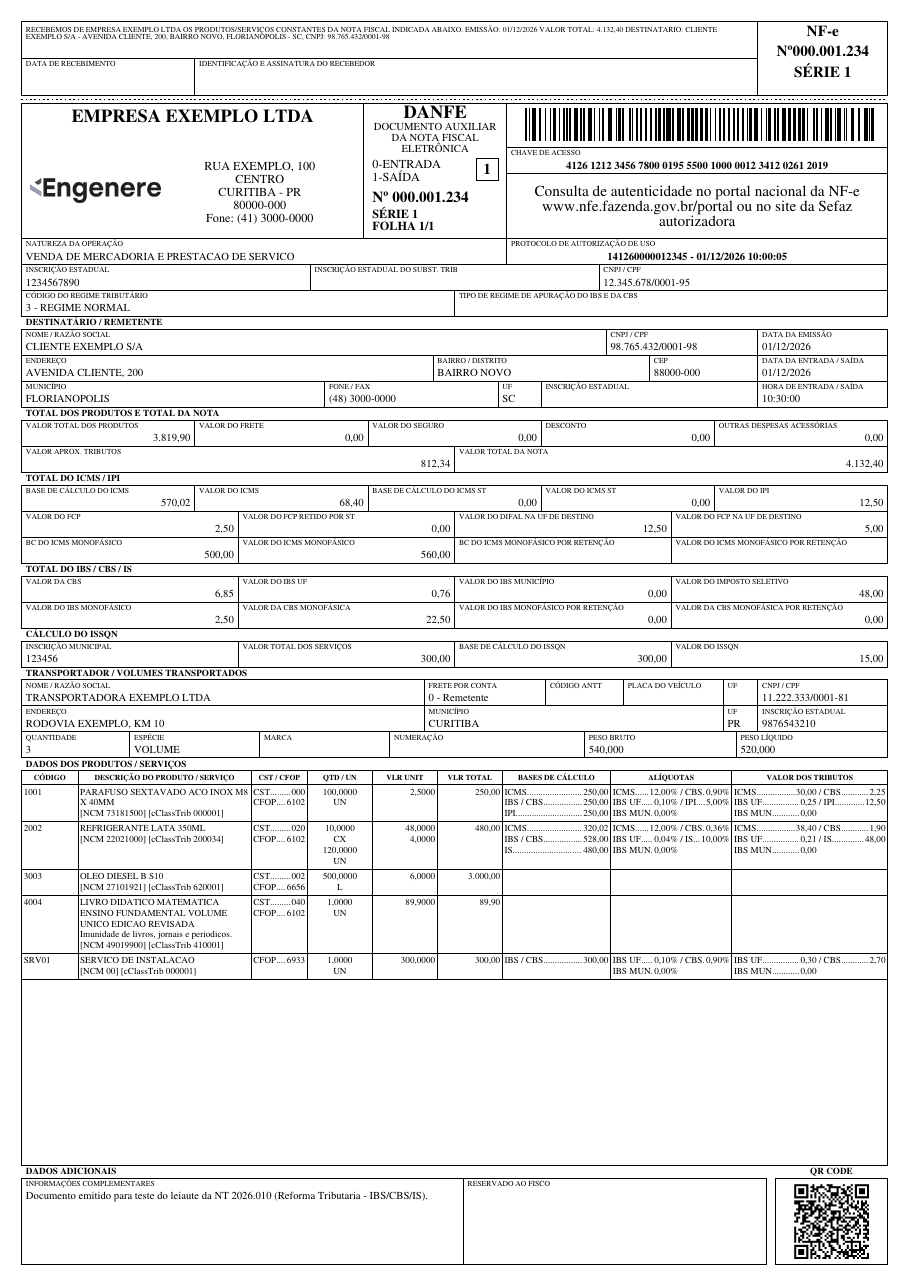
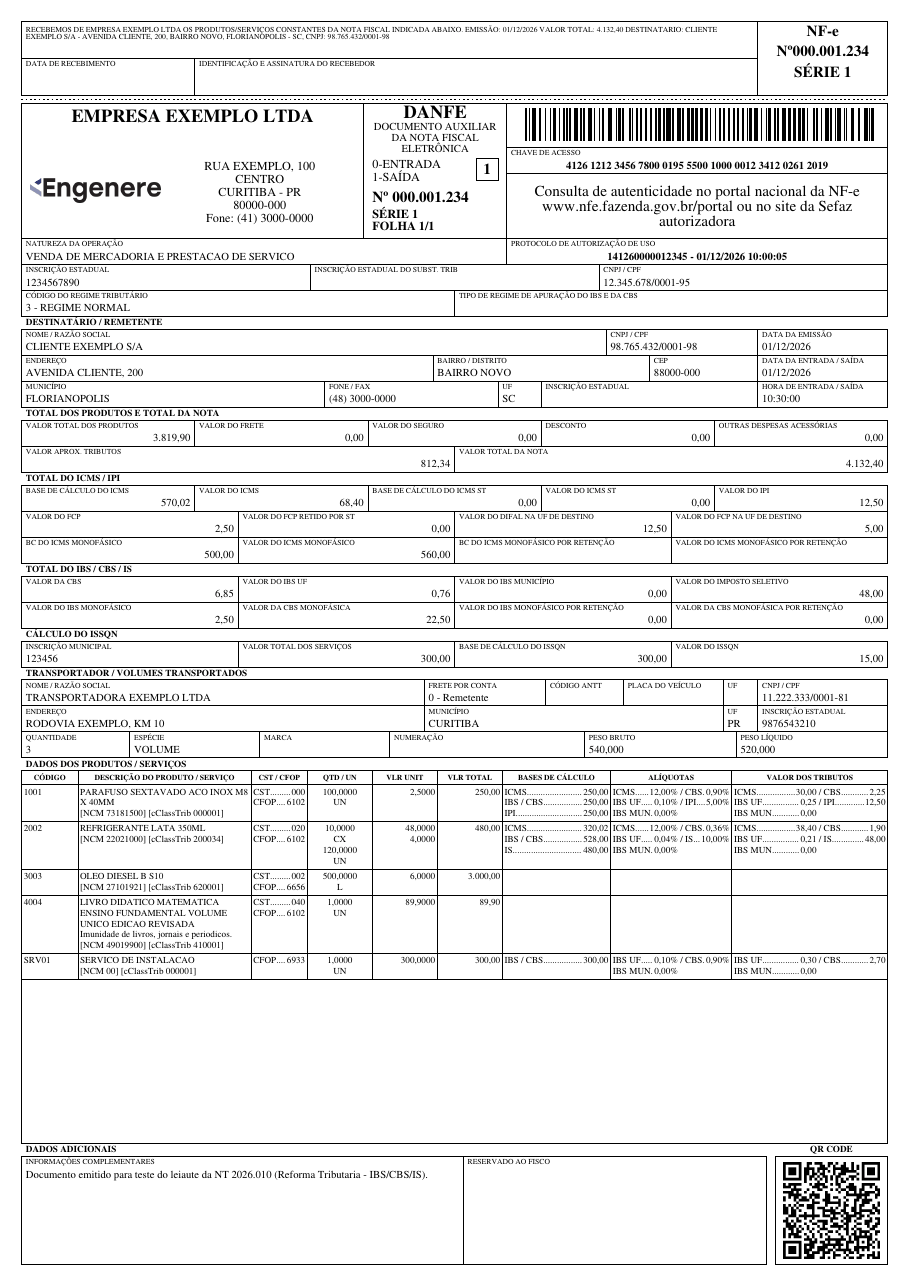
DANFE: QR Code com 22 mm e nível M, conforme a NT 2026.003
A NT 2026.010 deixa as regras do QR Code do DANFE comum para uma NT
futura. Enquanto isso, o QR segue a única regra já publicada para o
modelo 55, a do DANFE Simplificado Tipo 2 (NT 2026.003):

- 22 mm de código num quadro de pelo menos 25 x 25 mm, sendo o restante
  a margem segura; o bloco "DADOS ADICIONAIS" cresce para 25 mm quando há
  QR Code (antes o código ficava com ~19 mm)
- nível de correção de erros M (item 4.4.2); a imagem é gerada sem margem
  própria, porque o quadro já faz esse papel

O make_qr_code_image ganha o parâmetro error_correction, com o nível L de
antes como padrão para DACTE, DAMDFE e DANFSe. A fixture nfe_rtc.xml passa
a usar a URL no formato da versão 3 (chave|3|tpAmb).

Changed region(s): [[0.0308, 0.8702, 0.4615, 0.9324], [0.8615, 0.8702, 0.9846, 0.9946], [0.4923, 0.9013, 0.6154, 0.9324]]

diff --git a/brazilfiscalreport/danfe/danfe.py b/brazilfiscalreport/danfe/danfe.py
@@ -7,6 +7,7 @@ from itertools import zip_longest
 from xml.etree.ElementTree import Element
 
 from fpdf.enums import MethodReturnValue
+from qrcode.constants import ERROR_CORRECT_M
 
 from ..generate_qrcode import make_qr_code_image
 from ..utils import (
@@ -33,6 +34,8 @@ from .danfe_conf import (
     PRODUCT_LINE_HEIGHT,
     QR_CODE_BLOCK_GAP,
     QR_CODE_BLOCK_WIDTH,
+    QR_CODE_BOX_SIZE,
+    QR_CODE_SIZE,
     URL,
 )
 from .danfe_emit_info import DanfeEmitInfo
@@ -153,7 +156,13 @@ class Danfe(xFPDF):
         self.issqn_tot = root.find(f"{URL}ISSQNtot")
         self.crt = extract_text(self.emit, "CRT")
         qr_code = (extract_text(root, "qrCode") or "").strip()
-        self.qr_code_image = make_qr_code_image(qr_code) if qr_code else None
+        self.qr_code_image = None
+        if qr_code:
+            # no quiet zone in the image: the box around it provides one;
+            # error correction level M as in NT 2026.003, item 4.4.2
+            self.qr_code_image = make_qr_code_image(
+                qr_code, border=0, error_correction=ERROR_CORRECT_M
+            )
 
         self.total_receipt_height = 19  # TODO need compute
 
@@ -1857,10 +1866,11 @@ class Danfe(xFPDF):
         height = (
             continuation_height - HEIGHT_FONT_BLOCK_DESC if continuation_height else 20
         )
-        block_adic.rows_heights = (height,)
         draw_qr_code = self.qr_code_image is not None and not continuation_height
         if draw_qr_code:
             block_adic.w -= QR_CODE_BLOCK_WIDTH + QR_CODE_BLOCK_GAP
+            height = max(height, QR_CODE_BOX_SIZE)
+        block_adic.rows_heights = (height,)
         if not continuation_height:
             fields = [
                 BaseFieldInfo(
@@ -1904,13 +1914,12 @@ class Danfe(xFPDF):
         y_box = y + HEIGHT_FONT_BLOCK_DESC
         h_box = h - HEIGHT_FONT_BLOCK_DESC
         self.rect(x=x, y=y_box, w=w, h=h_box)
-        size = min(w, h_box) - 2
         self.image(
             self.qr_code_image,
-            x=x + (w - size) / 2,
-            y=y_box + (h_box - size) / 2,
-            w=size,
-            h=size,
+            x=x + (w - QR_CODE_SIZE) / 2,
+            y=y_box + (h_box - QR_CODE_SIZE) / 2,
+            w=QR_CODE_SIZE,
+            h=QR_CODE_SIZE,
         )
 
     def _draw_footer_stamp(self):

diff --git a/brazilfiscalreport/danfe/danfe_conf.py b/brazilfiscalreport/danfe/danfe_conf.py
@@ -7,7 +7,12 @@ HEIGHT_FONT_BLOCK_DESC = 3
 PRODUCT_LINE_HEIGHT = 2.5
 PRODUCT_HEADER_LINE_HEIGHT = 2.2
 PRODUCT_CELL_PADDING = 0.5
-# QR Code box printed beside "DADOS ADICIONAIS" (NT 2026.010, item 4.5).
+# QR Code box printed beside "DADOS ADICIONAIS" (NT 2026.010, item 4.5). The
+# size follows the only rule published so far for the QR Code of the NF-e
+# model 55 (NT 2026.003, item 3.4): 22 mm of code inside a box of at least
+# 25 x 25 mm, the rest being the quiet zone.
+QR_CODE_SIZE = 22
+QR_CODE_BOX_SIZE = 25
 QR_CODE_BLOCK_WIDTH = 26
 QR_CODE_BLOCK_GAP = 2
 BASE_FONT_SIZES = {

diff --git a/brazilfiscalreport/generate_qrcode.py b/brazilfiscalreport/generate_qrcode.py
@@ -1,10 +1,15 @@
 import qrcode
 
 
-def make_qr_code_image(qr_code_data, box_size=10, border=1):
+def make_qr_code_image(
+    qr_code_data,
+    box_size=10,
+    border=1,
+    error_correction=qrcode.constants.ERROR_CORRECT_L,
+):
     qr = qrcode.QRCode(
         version=1,
-        error_correction=qrcode.constants.ERROR_CORRECT_L,
+        error_correction=error_correction,
         box_size=box_size,
         border=border,
     )

diff --git a/docs/danfe.pt.md b/docs/danfe.pt.md
@@ -311,4 +311,4 @@ danfe.output('output_danfe.pdf')
 - Cada item exibe o CST/CFOP, o NCM e o `cClassTrib` no rodapé da descrição, e as **bases, alíquotas e valores** de ICMS, IBS UF, IBS Município, CBS, IPI e IS (item 4.3). Só os tributos informados no item são listados; alíquotas e valores são impressos dois por linha (ICMS / CBS, IBS UF / IPI, IBS MUN / IS) quando cabem, senão um por linha.
 - Quando o grupo `gRed` é informado (redução de alíquota ou compra governamental), é impressa a alíquota efetiva `pAliqEfet` do IBS UF, do IBS Município e da CBS no lugar da alíquota vigente.
 - Valores ausentes do XML ficam em branco em vez de impressos como zero (item 4.4).
-- Quando o XML possui `infNFeSupl/qrCode`, um quadro de **QR Code** é impresso ao lado de **Dados Adicionais** (item 4.5).
+- Quando o XML possui `infNFeSupl/qrCode`, um quadro de **QR Code** é impresso ao lado de **Dados Adicionais** (item 4.5). Enquanto as regras do QR Code do DANFE comum não são publicadas, ele segue a NT 2026.003 (DANFE Simplificado Tipo 2): 22 mm de código num quadro de 25 x 25 mm e nível de correção de erros M.

diff --git a/docs/danfe.md b/docs/danfe.md
@@ -311,4 +311,4 @@ danfe.output('output_danfe.pdf')
 - Each item shows the CST/CFOP, the NCM and the `cClassTrib` at the bottom of the description, and the **bases, rates and values** of ICMS, IBS UF, IBS Município, CBS, IPI and IS (item 4.3). Only the taxes informed in the item are listed; rates and values are printed two per line (ICMS / CBS, IBS UF / IPI, IBS MUN / IS) when they fit, otherwise one per line.
 - When the `gRed` group is informed (rate reduction or government purchase), the effective rate `pAliqEfet` is printed for IBS UF, IBS Município and CBS instead of the regular rate.
 - Values absent from the XML are left blank instead of being printed as zero (item 4.4).
-- When the XML has `infNFeSupl/qrCode`, a **QR Code** box is printed beside **Dados Adicionais** (item 4.5).
+- When the XML has `infNFeSupl/qrCode`, a **QR Code** box is printed beside **Dados Adicionais** (item 4.5). While the rules for the QR Code of the regular DANFE are not published, it follows NT 2026.003 (DANFE Simplificado Tipo 2): 22 mm of code inside a 25 x 25 mm box and error correction level M.
